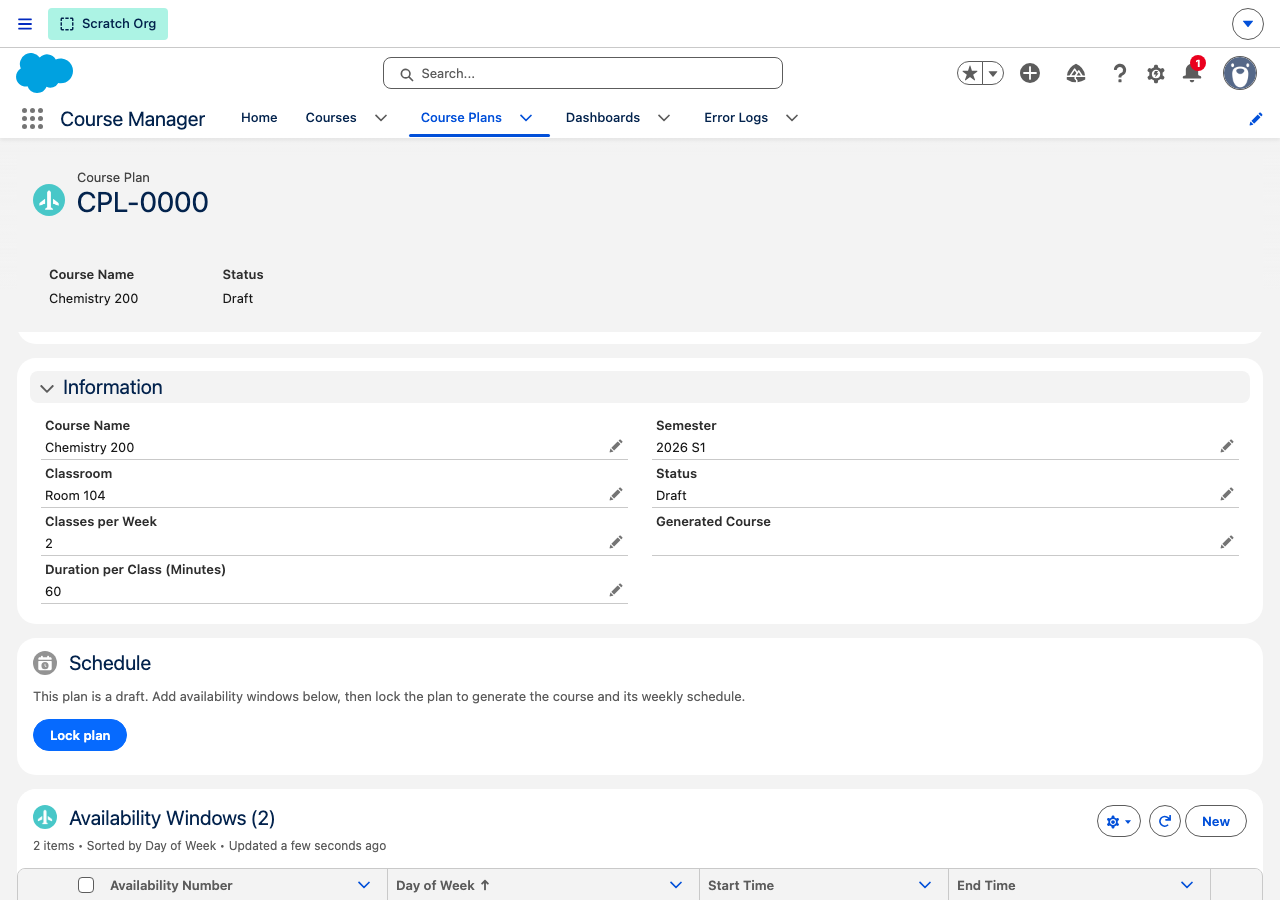
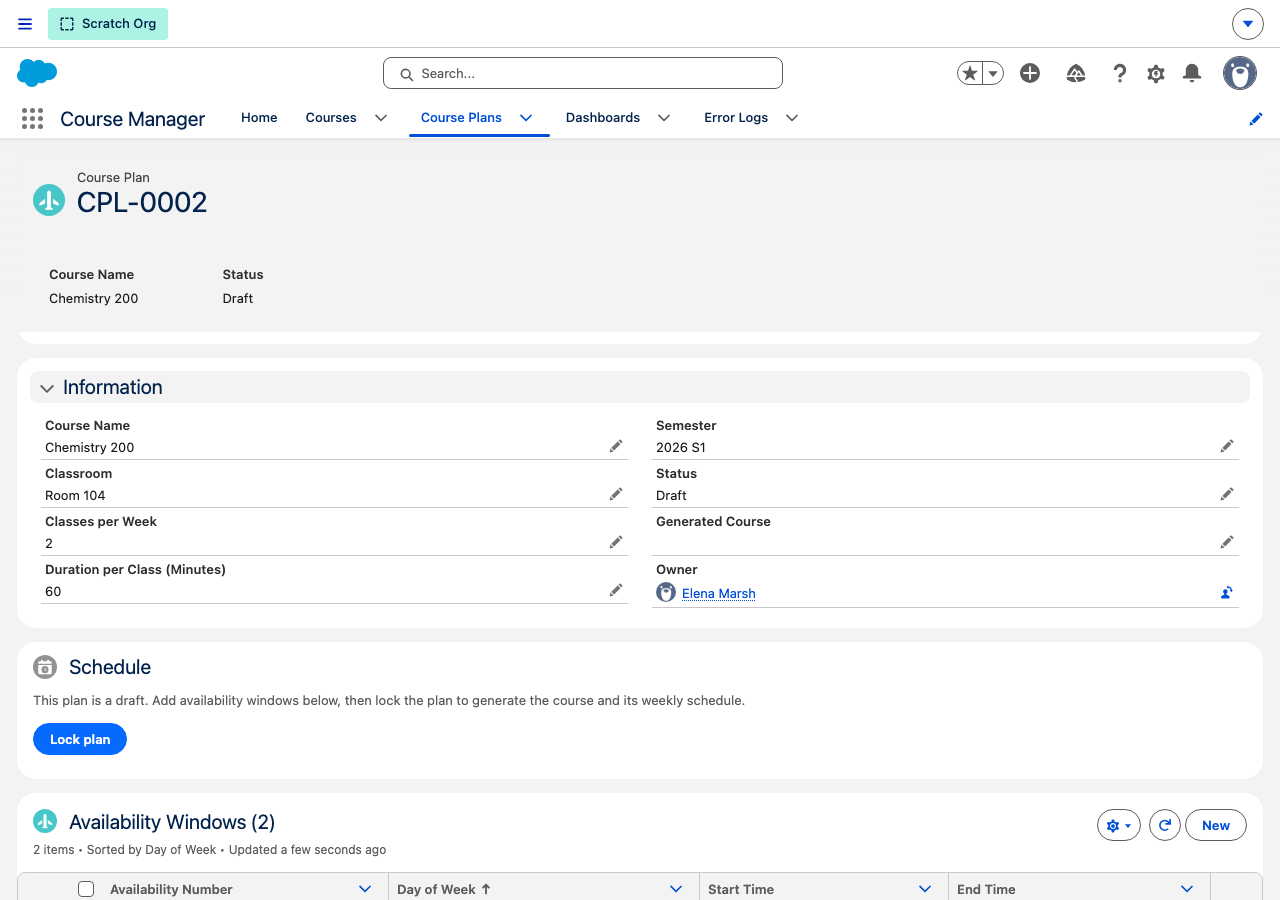
Implement task 033: add a list view for Course Plan
Add the All Course Plans list view (Name, Course Name, Owner First/Last
Name, Semester, Classroom, Status), shared to all internal users,
matching the Course__c All_Courses pattern. Owner uses first/last name
columns since OWNER.NAME isn't a valid list view column and the alias
alone isn't a readable name.

Refresh the course plan record page and list view screenshots in the
README to reflect the Owner field (task 032) and this new list view.

diff --git a/scripts/screenshot/course-plans-list-view.js b/scripts/screenshot/course-plans-list-view.js
@@ -1,0 +1,77 @@
+import { chromium } from "@playwright/test";
+import { getFrontdoorUrl } from "../../tests/helpers/salesforce.js";
+import { mkdirSync } from "fs";
+import { join } from "path";
+
+const SCREENSHOTS_DIR = "playwright/screenshots";
+mkdirSync(SCREENSHOTS_DIR, { recursive: true });
+
+const datetime = new Date().toISOString().slice(0, 19).replace(/:/g, "-");
+
+const browser = await chromium.launch({ headless: true });
+const context = await browser.newContext({
+  viewport: { width: 1280, height: 720 }
+});
+const page = await context.newPage();
+
+await page.goto(getFrontdoorUrl("/lightning/page/home"), {
+  waitUntil: "commit"
+});
+await page
+  .locator("one-app-nav-bar-item-root")
+  .first()
+  .waitFor({ state: "visible", timeout: 45_000 });
+
+// Navigate to the Course Manager app
+const waffle = page
+  .locator(
+    'one-app-launcher-header .slds-icon-waffle, [data-id="AppLauncherButton"]'
+  )
+  .first();
+await waffle.click();
+const search = page.locator('input[placeholder="Search apps and items..."]');
+await search.waitFor({ state: "visible", timeout: 10_000 });
+await search.fill("Course Manager");
+await page.waitForTimeout(1500);
+const tile = page.locator("a", { hasText: "Course Manager" }).first();
+await tile.waitFor({ state: "visible", timeout: 10_000 });
+await tile.click();
+
+const coursePlansTab = page
+  .locator("one-app-nav-bar-item-root", { hasText: "Course Plans" })
+  .first();
+await coursePlansTab.waitFor({ state: "visible", timeout: 30_000 });
+await coursePlansTab.click();
+
+await page
+  .locator(
+    "force-list-view-manager-header, .listViewManagerHeader, .slds-page-header__title"
+  )
+  .first()
+  .waitFor({ state: "visible", timeout: 30_000 });
+await page.waitForTimeout(2000);
+
+// Switch to the All Course Plans list view via the list view picker trigger
+const listViewPicker = page
+  .locator(".triggerLink, .slds-page-header__name.slds-type-focus")
+  .first();
+await listViewPicker.waitFor({ state: "visible", timeout: 10_000 });
+await listViewPicker.click();
+const allCoursePlansOption = page
+  .locator('a[title="All Course Plans"], span[title="All Course Plans"], li', {
+    hasText: "All Course Plans"
+  })
+  .first();
+await allCoursePlansOption.waitFor({ state: "visible", timeout: 10_000 });
+await allCoursePlansOption.click();
+await page.waitForTimeout(3000);
+
+const screenshotPath = join(
+  SCREENSHOTS_DIR,
+  `${datetime}_course-plans-list-view.png`
+);
+await page.screenshot({ path: screenshotPath, fullPage: false });
+console.log(`Screenshot saved: ${screenshotPath}`);
+
+await context.close();
+await browser.close();

diff --git a/TASKS.md b/TASKS.md
@@ -36,7 +36,7 @@ Quick-scan index of all tasks. One row per task; details live in `tasks/<id>_<sl
 | [030](tasks/030_course-plan-delete-without-unlock.md)             | Allow deleting a locked CoursePlan without unlocking first                   | done   |
 | [031](tasks/031_course-plan-unscheduled-status.md)                | Add "Unscheduled" status to CoursePlan                                       | done   |
 | [032](tasks/032_course-plan-owner-on-record-page.md)              | Show Owner on the Course Plan record page                                    | done   |
-| [033](tasks/033_course-plan-list-view.md)                         | Add a list view for Course Plan                                              | open   |
+| [033](tasks/033_course-plan-list-view.md)                         | Add a list view for Course Plan                                              | done   |
 | [034](tasks/034_course-planning-community.md)                     | Course planning from the Experience Site                                     | open   |
 | [035](tasks/035_course-detail-community-timeslots-enrollments.md) | Show time slots, enrollments, and PDF report on community Course Detail page | open   |
 | [036](tasks/036_apex_prettier_indent_convergence.md)              | Reformat remaining Apex classes to prettier's 2-space indent                 | done   |

diff --git a/tasks/033_course-plan-list-view.md b/tasks/033_course-plan-list-view.md
@@ -1,6 +1,6 @@
 # 033 Add a list view for Course Plan
 
-**Status:** open
+**Status:** done
 
 ## What
 
@@ -8,13 +8,15 @@
 
 ## Acceptance criteria
 
-- [ ] New list view on `CoursePlan__c` showing at minimum: Name, Course Name, Owner, Semester, Classroom, Status.
-- [ ] Shared to all internal users (matching `Course__c`'s `All_Courses` list view sharing).
-- [ ] List view is reachable from the `CoursePlan__c` tab in the Course Manager app.
+- [x] New list view on `CoursePlan__c` showing at minimum: Name, Course Name, Owner, Semester, Classroom, Status.
+- [x] Shared to all internal users (matching `Course__c`'s `All_Courses` list view sharing).
+- [x] List view is reachable from the `CoursePlan__c` tab in the Course Manager app.
 
 ## Notes
 
 Follow-up cleanup item from task 024. Pairs well with task 032 (Owner on record page) since both surface who owns a plan.
+
+Owner is shown as separate `OWNER.FIRST_NAME` / `OWNER.LAST_NAME` columns rather than `OWNER.ALIAS`, since list views can't resolve `OWNER.NAME` and the alias alone isn't a readable name.
 
 ## Related migrations
 

diff --git a/README.md b/README.md
@@ -26,6 +26,10 @@ Each course record shows the course details and its related time slots.
 
 Instructors don't create courses directly. Instead, they define a **course plan** (name, classroom, classes per week, duration per class, semester) and declare their weekly availability windows. Locking the plan runs a scheduler that assigns a concrete, conflict-free time slot to each weekly class and generates the course; if no valid schedule exists, the plan stays locked with a clear error explaining why.
 
+All course plans are visible in the **All Course Plans** list view with owner, semester, classroom, and status.
+
+![All Course Plans list view](/assets/course-plans-list.png)
+
 ![Draft course plan with availability windows](/assets/course-plan-draft.png)
 
 ![Locked course plan with generated schedule](/assets/course-plan-schedule.png)
